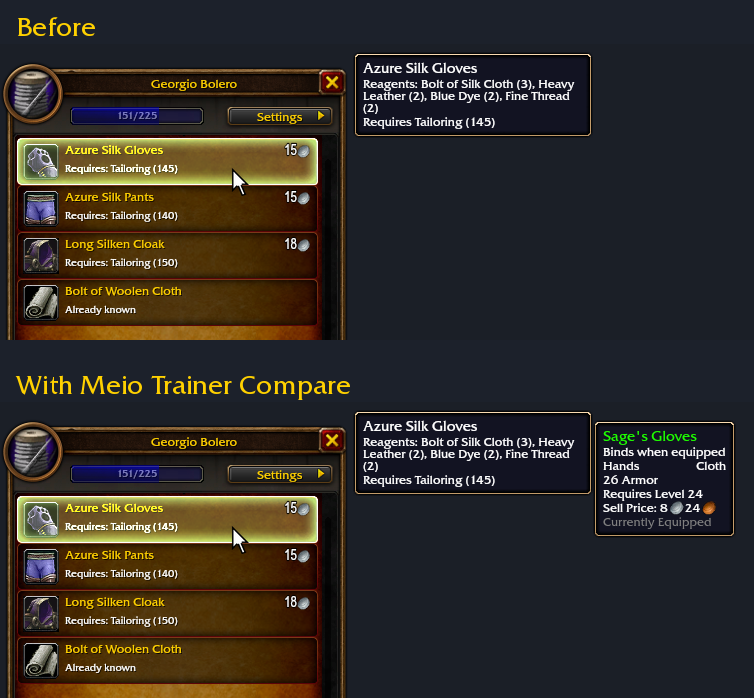
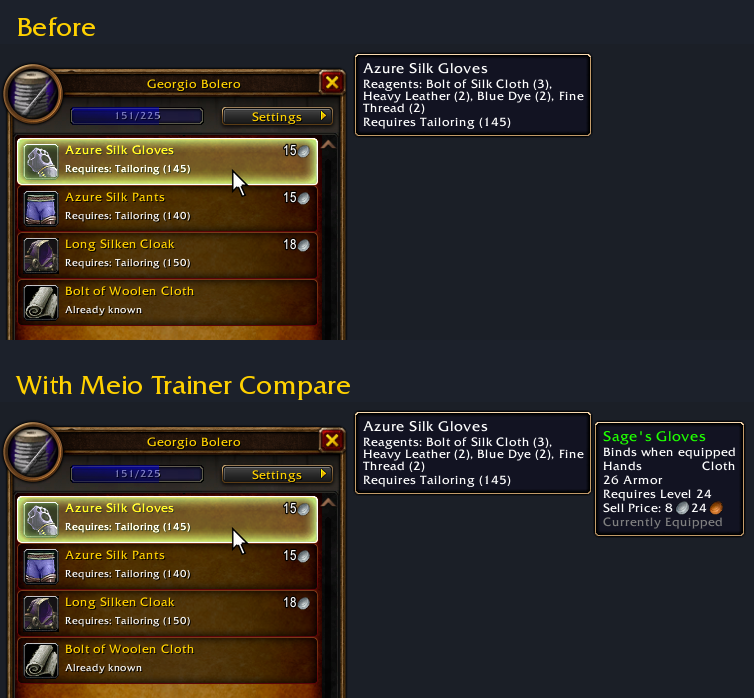
Listing pictures re-rendered; new summary and opening line

diff --git a/README.md b/README.md
@@ -1,6 +1,7 @@
 # Meio Trainer Compare
 
-Your equipped gear beside profession trainer recipes.
+Before you buy a recipe and the mats: the trainer shows your equipped item beside it, like
+any other upgrade.
 
 For WoW Forever.
 
